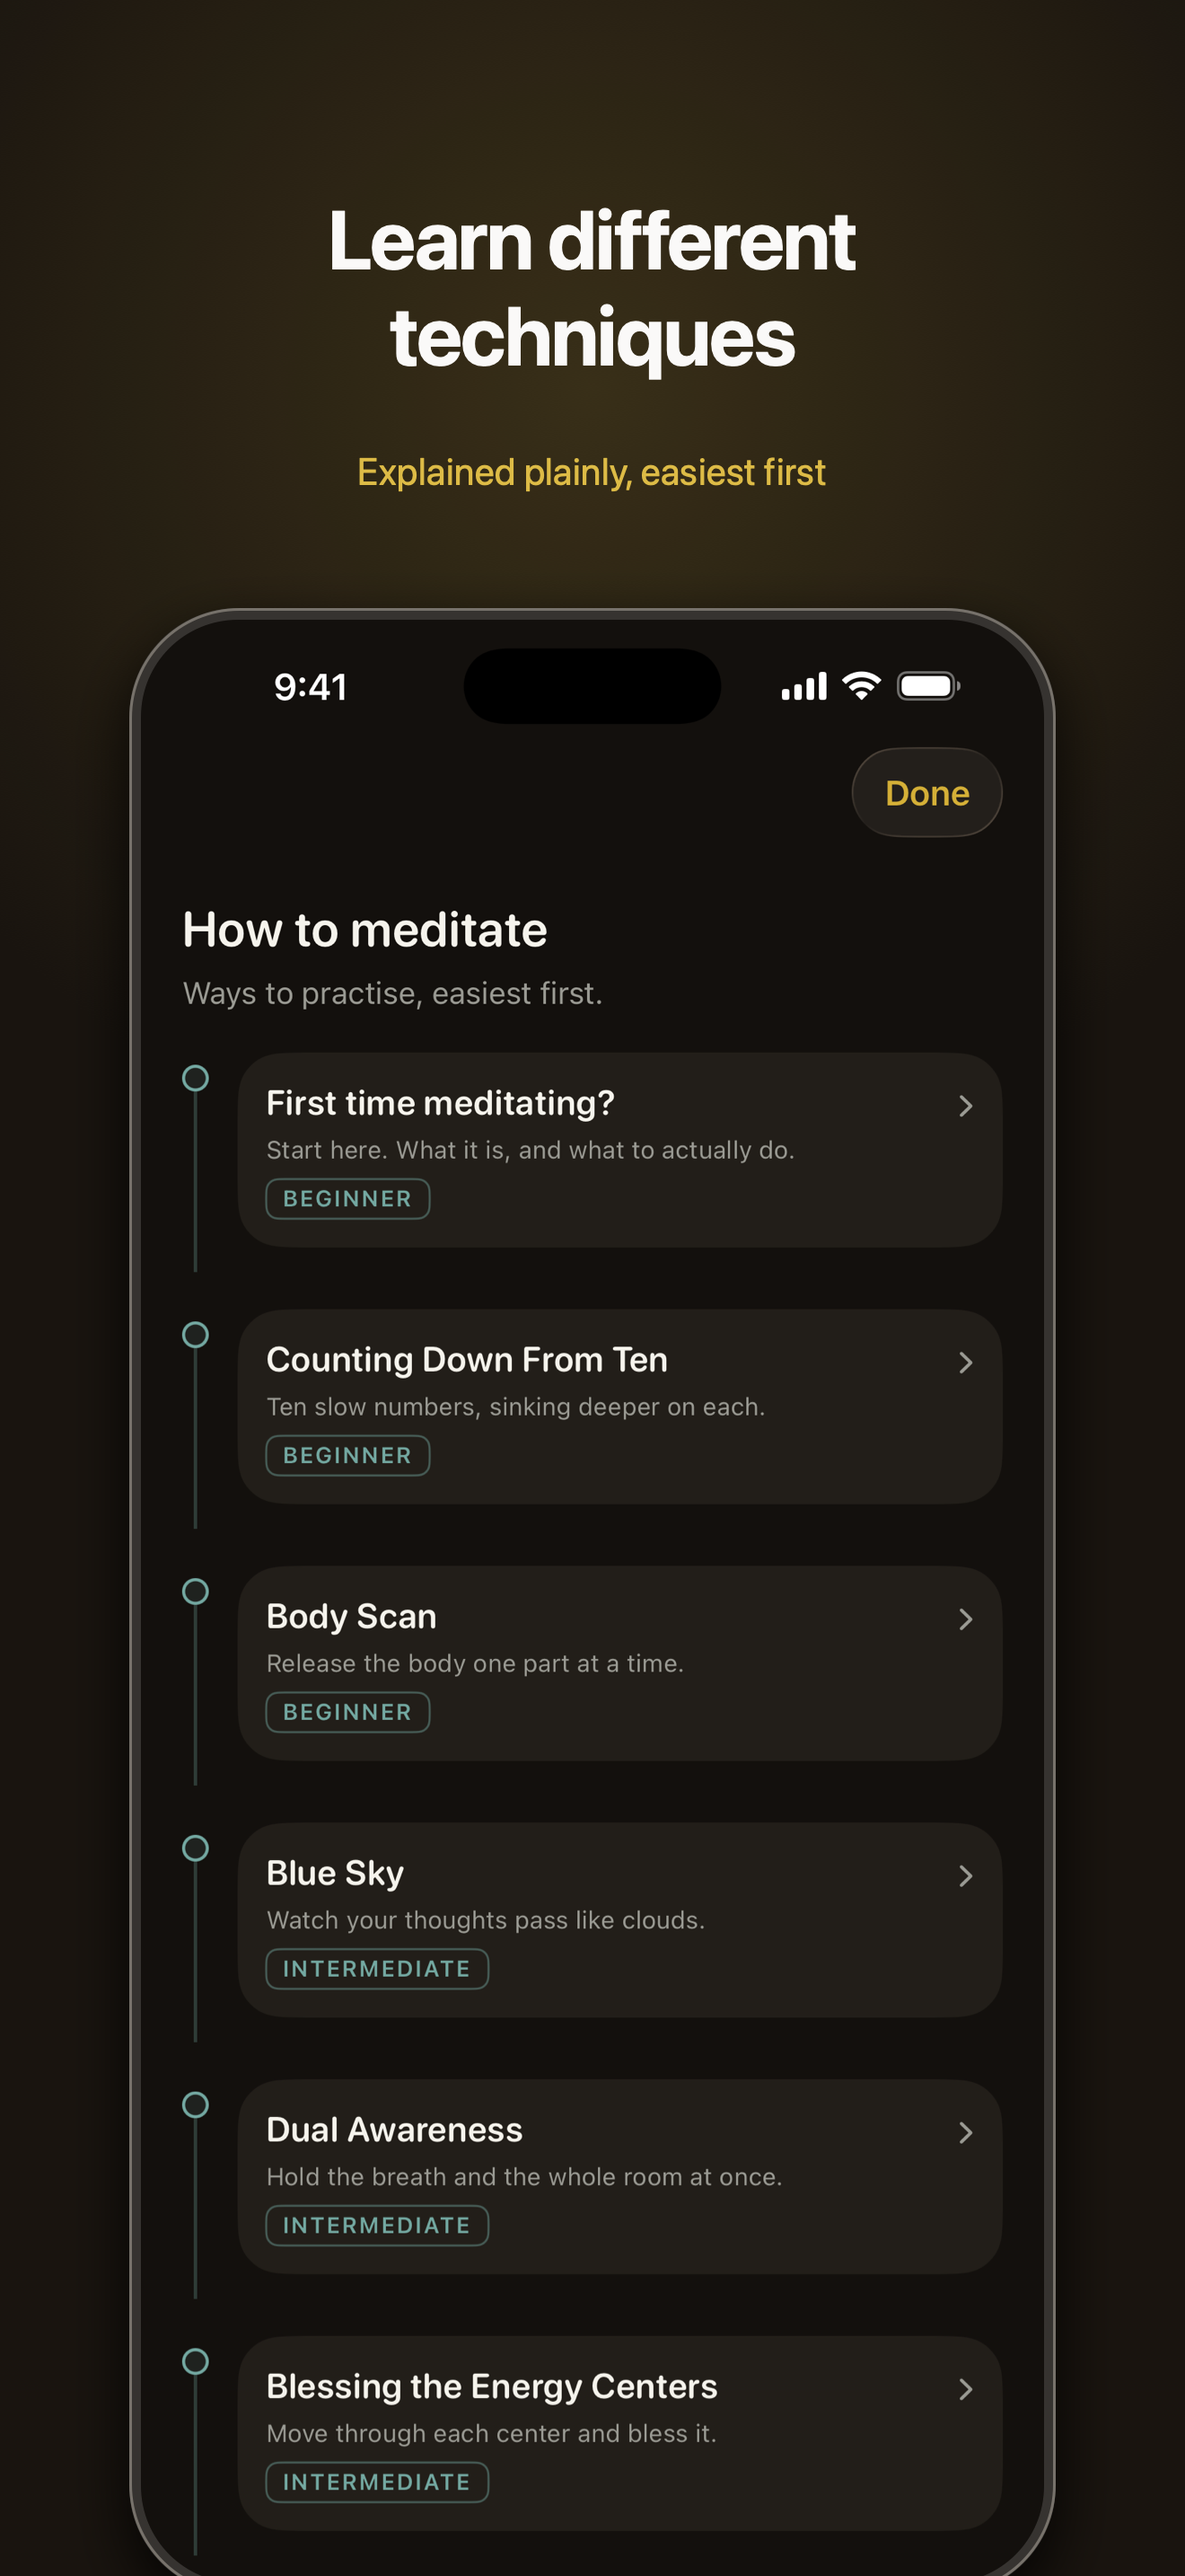
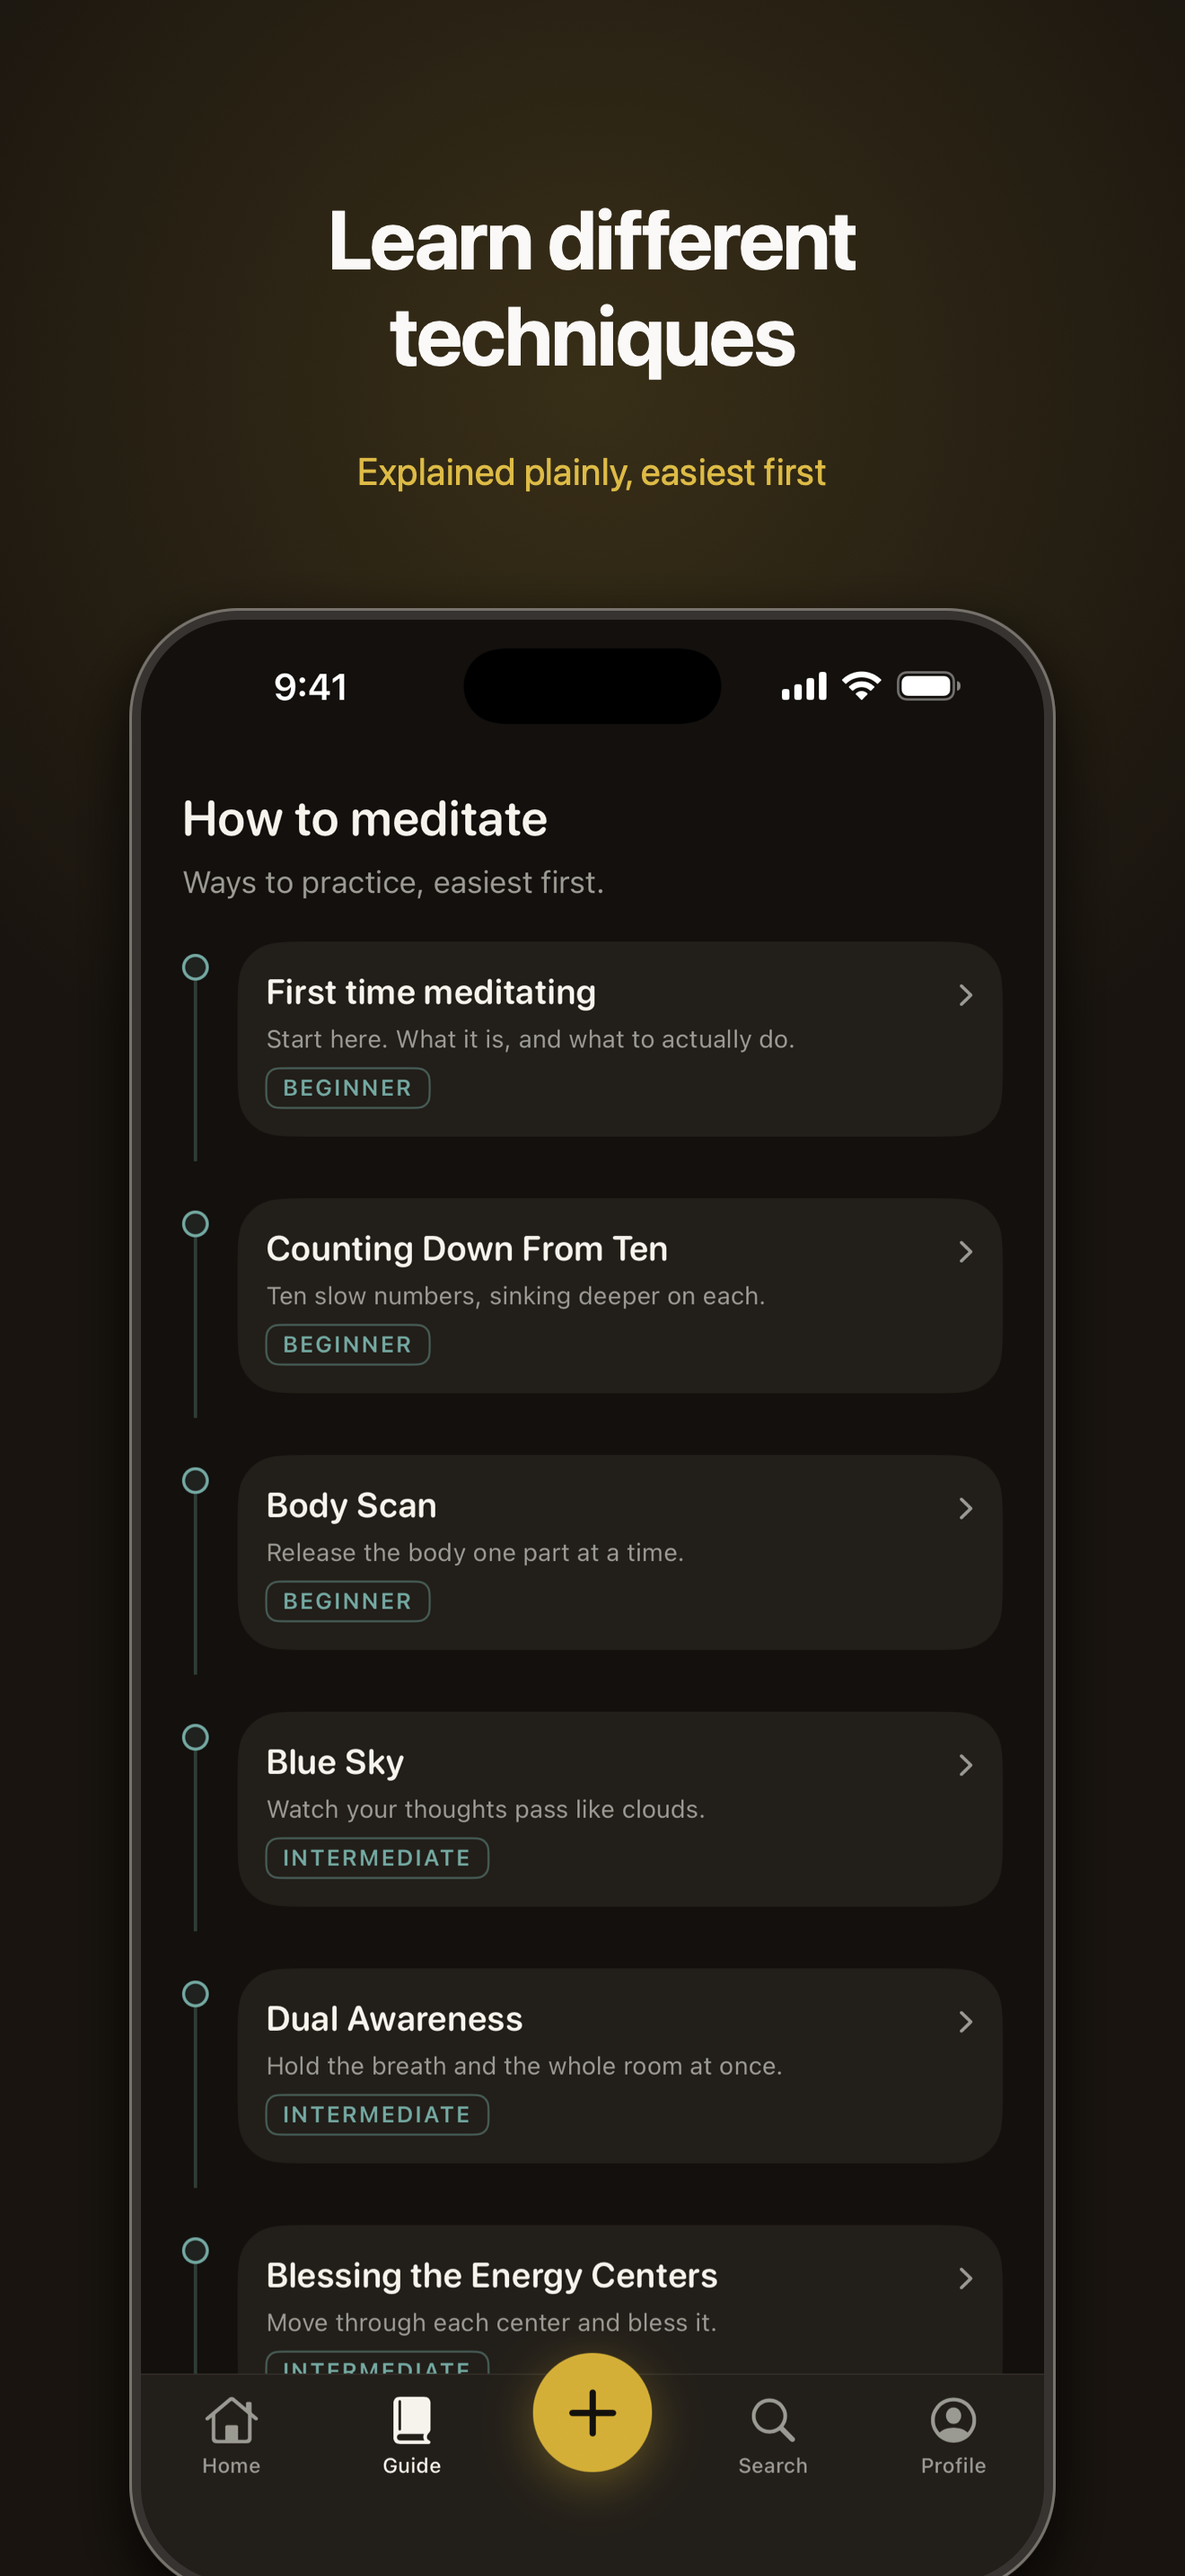
Store screenshots 7 and 8 re-shot on the five-tab layout
Profile tab (was the Journey sheet) and Guide tab (was a modal with Done).
DEMO_USERNAME debug hook so a seeded profile shows a handle.

diff --git a/Coherence/ContentView.swift b/Coherence/ContentView.swift
@@ -109,6 +109,12 @@ struct ContentView: View {
                 let u = SessionStore.currentUser(in: context)
                 if (u.displayName ?? "").isEmpty { u.displayName = name; try? context.save() }
             }
+            // Store screenshots of the Profile tab: the handle is optional in
+            // onboarding, so a seeded profile has none unless asked for here.
+            if let handle = ProcessInfo.processInfo.environment["DEMO_USERNAME"] {
+                let u = SessionStore.currentUser(in: context)
+                if (u.username ?? "").isEmpty { u.username = Username.normalize(handle); try? context.save() }
+            }
             if ProcessInfo.processInfo.environment["PREVIEW_BLOCKED"] == "1" {
                 coordinator.startFailure = .heartRateUnavailable
             }
